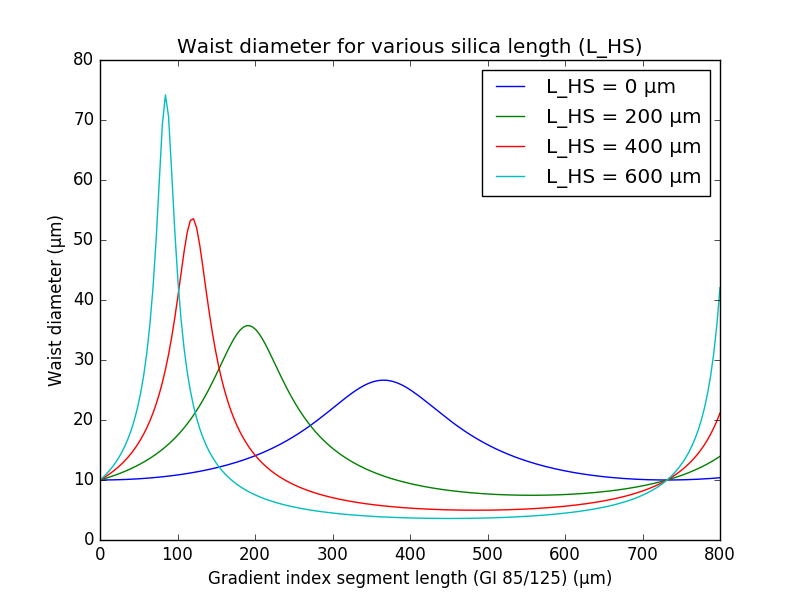
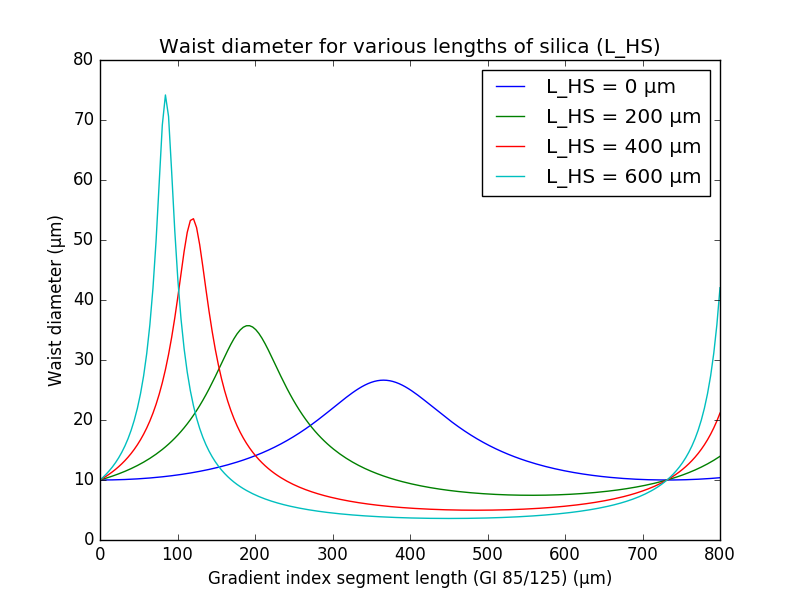
Peaufinage

Changed region(s): [[0.1875, 0.06, 0.8438, 0.09]]

diff --git a/examples/T4_Plots.py b/examples/T4_Plots.py
@@ -46,7 +46,7 @@ data = numpy.array(data_list)
 
 # Trace the plots
 pyplot.figure()
-pyplot.title("Waist diameter for various silica length (L_HS)")
+pyplot.title("Waist diameter for various lengths of silica (L_HS)")
 for (i, L_HS) in enumerate(L_HS_list):
     pyplot.plot(L_GI_list, data[i,:,0], label="L_HS = {:} µm".format(L_HS))
 pyplot.xlabel("Gradient index segment length (GI 85/125) (µm)")
@@ -54,7 +54,7 @@ pyplot.ylabel("Waist diameter (µm)")
 pyplot.legend()
 
 pyplot.figure()
-pyplot.title("Working distance for various silica length (L_HS)")
+pyplot.title("Working distance for various lengths of silica (L_HS)")
 for (i, L_HS) in enumerate(L_HS_list):
     pyplot.plot(L_GI_list, data[i,:,1], label="L_HS = {:} µm".format(L_HS))
 pyplot.xlabel("Gradient index segment length (GI 85/125) (µm)")

diff --git a/examples/README.md b/examples/README.md
@@ -3,9 +3,9 @@ GradissimoCalculator examples
 
 The test examples are used to validate the code in known situations.
 
-File `T4_Plots.py` reproduces figures 5 and 6 from reference [1].
+File `T4_Plots.py` reproduces figures 5 and 6 from [this reference][1].
 
-![Reproducing figure 5 from reference [1]](figure/ref_1_figure_5.png)
+![Reproducing figure 5 from reference 1](figure/ref_1_figure_5.png)
 
 [1]: https://www.osapublishing.org/jlt/abstract.cfm?uri=jlt-17-5-924
 
